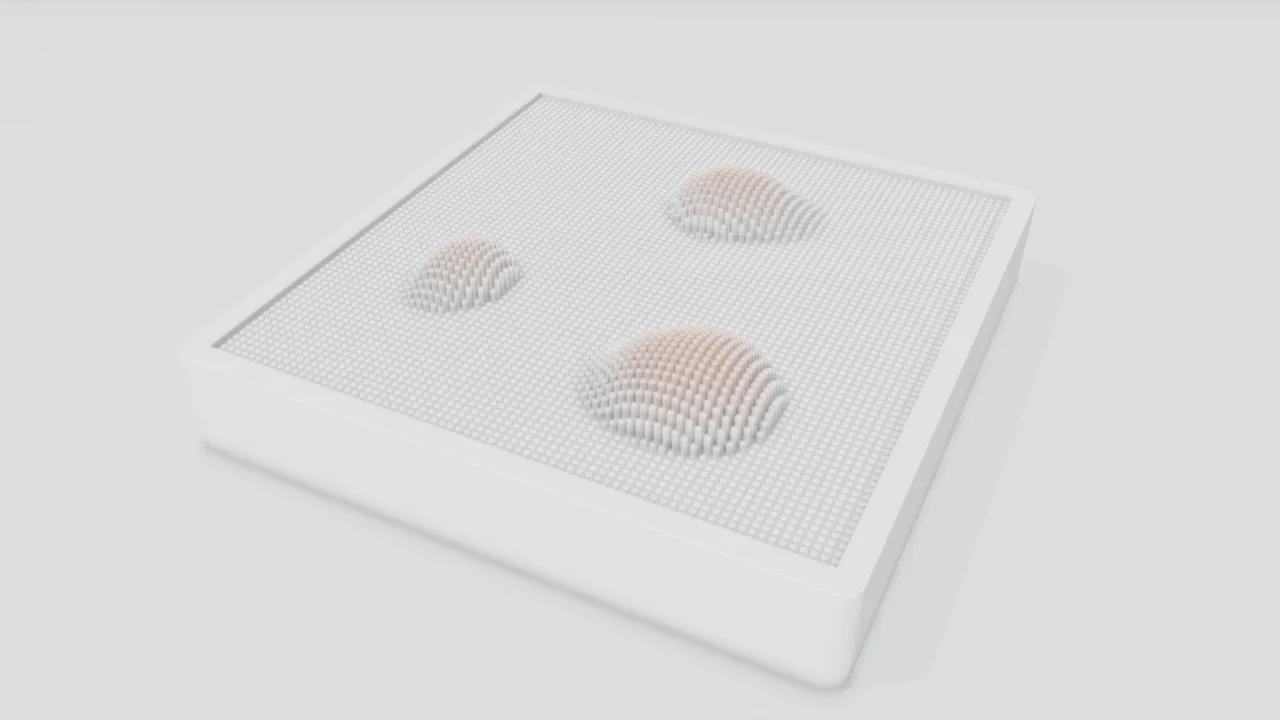
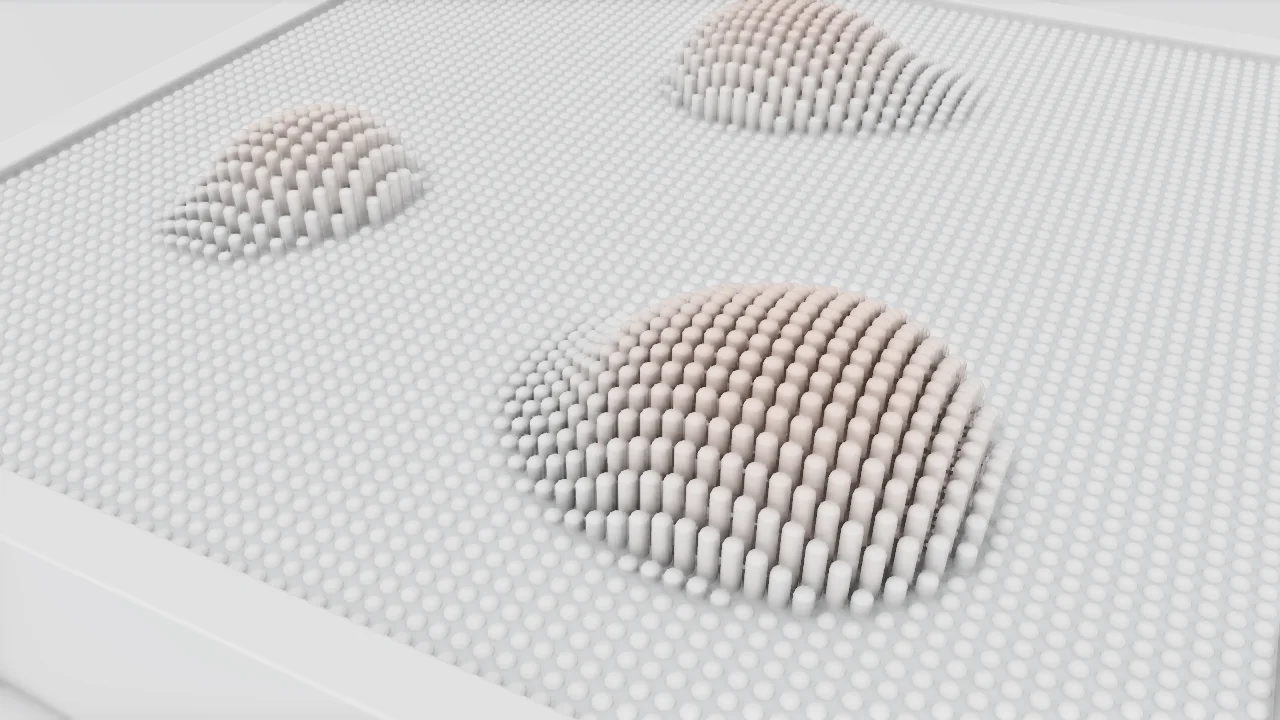
Tidy the READMEs and frame the AO demo closer
- Link the README's tiles to their READMEs' headings
- Show each technique's screenshot at 400px, with a Live link to its demo
- Move the AO demo's camera closer and retake its screenshot
- Drop the "every option is also a property" comments: the snippets set their options in the options object

Claude-Session: https://claude.ai/code/session_015eexSuq3pECxfGB3y4SeQv

diff --git a/rendering/screen-space-reflections/SSRNode.js b/rendering/screen-space-reflections/SSRNode.js
@@ -16,8 +16,10 @@
  *   scenePass.getTexture('velocity').type = THREE.HalfFloatType      // RG16F: keeps the MRT at 30 B per sample
  *   scenePass.getTexture('velocity').format = THREE.RGFormat
  *   const color = scenePass.getTextureNode()
- *   const reflections = ssr(color, scenePass, { thickness: 0.2 })    // reads the pass's ssr* and velocity textures
- *   reflections.roughnessCutoff = 0.6                                // every option is also a property
+ *   const reflections = ssr(color, scenePass, {                      // reads the pass's ssr* and velocity textures
+ *     thickness: 0.2,
+ *     roughnessCutoff: 0.6,
+ *   })
  *   const composite = ssrComposite(color, reflections, scene.environment, {
  *     environmentIntensity: () => scene.environmentIntensity,          // read each frame
  *     environmentRotation: scene.environmentRotation,
@@ -34,12 +36,11 @@
  * Outputs: the node itself is `(L_ssr, c)` at the fragment's G-buffer texel; `ssrComposite()` replaces the
  * scene's environment specular by `mix(L_env, L_ssr, c)`; `ssrEnvironmentSpecular()` is that `F·L_env`.
  *
- * Every option is also a property of the same name. Numeric settings are uniforms (getter → UniformNode, setter →
- * value) and switches uniform 0/1: changing them never recompiles. `batch` and `velocityNode` rebuild the trace on
- * the next frame, as do `normalsNode`, `linearDepthNode`, `specularNode` and `resolutionScale`. Those four and
- * `pyramidLevels` also change what the node's inline readers compile to (the node, `resolve()`, `ssrComposite()`,
- * `ssrEnvironmentSpecular()`): rebuild the output graph after changing them. `getTextureNode()` follows on its own.
- * The camera type is fixed at construction.
+ * Numeric settings are uniforms (getter → UniformNode, setter → value) and switches uniform 0/1: changing them never
+ * recompiles. `batch` and `velocityNode` rebuild the trace on the next frame, as do `normalsNode`, `linearDepthNode`,
+ * `specularNode` and `resolutionScale`. Those four and `pyramidLevels` also change what the node's inline readers
+ * compile to (the node, `resolve()`, `ssrComposite()`, `ssrEnvironmentSpecular()`): rebuild the output graph after
+ * changing them. `getTextureNode()` follows on its own. The camera type is fixed at construction.
  */
 import {
   FloatType,
@@ -443,8 +444,8 @@ export class SSRNode extends Node {
   /**
    * @param {TextureNode} colorNode - Scene radiance at the G-buffer's resolution (HDR: the jittered scene pass output).
    * @param {PassNode} gBufferPass - The pass whose MRT spreads ssrGBuffer() (and 'velocity'); samples 0.
-   * @param {object} [options] - Initial values of the properties of the same name: `label`, the input nodes,
-   *   `resolutionScale`, `batch`, `pyramidLevels`, `maxDistance`, the numeric settings and the switches.
+   * @param {object} [options] - `label`, the input nodes, `resolutionScale`, `batch`, `pyramidLevels`, `maxDistance`,
+   *   the numeric settings and the switches.
    */
   constructor(colorNode, gBufferPass, options = {}) {
     super('vec4')

diff --git a/rendering/screen-space-reflections/SSRNode.d.ts b/rendering/screen-space-reflections/SSRNode.d.ts
@@ -3,8 +3,7 @@
 //   const scenePass = pass(scene, camera, { samples: 0 })
 //   scenePass.setMRT(mrt({ output, velocity, ...ssrGBuffer() }))   // keep velocity RG16F
 //   const color = scenePass.getTextureNode()
-//   const reflections = ssr(color, scenePass, { roughnessCutoff: 0.6 })
-//   reflections.thickness = 0.2 // every option is also a property
+//   const reflections = ssr(color, scenePass, { roughnessCutoff: 0.6, thickness: 0.2 })
 //   renderPipeline.outputNode = ssrComposite(color, reflections, scene.environment)
 //   await reflections.compileAsync(renderer) // optional: the passes' pipelines, ahead of time
 
@@ -20,7 +19,6 @@ export type SSRGBuffer = {
   ssrSpecular: Node<'vec4'>
 }
 
-/** Each option is also a property of the node, of the same name. */
 export interface SSRNodeOptions {
   /** Prefix of every material, target and quad name. Default 'SSR'. */
   label?: string

diff --git a/rendering/ambient-occlusion/index.html b/rendering/ambient-occlusion/index.html
@@ -148,9 +148,9 @@
       const BOARD = SIDE * PITCH
       const DEPTH = 0.8 // of the board, down to the floor
 
-      // Back far enough to see the board's width: a portrait phone sees it whole too.
+      // Close in on the pins; a narrow screen backs off to keep the same width in view.
       const halfWidth = Math.atan(Math.tan(THREE.MathUtils.degToRad(camera.fov) / 2) * camera.aspect)
-      const distance = THREE.MathUtils.clamp((BOARD / 2 + 1.1) / Math.tan(halfWidth), 8.4, 24)
+      const distance = THREE.MathUtils.clamp(2.25 / Math.tan(halfWidth), 4, 24)
       camera.position.set(3.4, 6, 6.85).setLength(distance).add(controls.target)
       scene.fog.near = distance + 4
       scene.fog.far = distance + 22

diff --git a/simulations/noodles/NoodleSimulation.js b/simulations/noodles/NoodleSimulation.js
@@ -61,7 +61,7 @@ import {
  *
  *   const curves = points.map((p) => new THREE.LineCurve3(p, p.clone().add(new THREE.Vector3(0, -3, 0))))
  *   const noodles = new NoodleSimulation(curves, material, { radius: 0.05, particlesPerNoodle: 32 })
- *   noodles.bendingCompliance = 0.5                  // stiffer; every setting is live
+ *   noodles.bendingCompliance = 0.5                  // stiffer
  *   noodles.bendingPlasticity = 0                    // ropes and cables spring back
  *   noodles.colliders.push(new THREE.Sphere(center, 0.5), new Capsule(start, end, 0.1)) // move them in place
  *   scene.add(noodles)

diff --git a/rendering/ambient-occlusion/XeGTAONode.d.ts b/rendering/ambient-occlusion/XeGTAONode.d.ts
@@ -4,7 +4,6 @@
 //   prePass.contextNode = context({ getAO: null }) // the prepass mustn't read the AO it feeds
 //   const occlusion = xeGTAO(prePass.getTextureNode('depth'), camera, { radius: 0.5 }) // world units
 //   scenePass.contextNode = builtinAOContext(occlusion.getMaterialAONode())
-//   occlusion.radius = 0.3 // every option is also a property
 //   await occlusion.compileAsync(renderer) // optional: compiles its passes ahead of the first frame
 //
 // Or as a post effect: multiply the scene's color by `occlusion.getAONode()`.

diff --git a/rendering/taau/TAAUNode.d.ts b/rendering/taau/TAAUNode.d.ts
@@ -7,7 +7,6 @@
 //   const color = scenePass.getTextureNode('output')
 //   const depth = scenePass.getTextureNode('depth')
 //   const taauNode = taau(color, depth, scenePass.getTextureNode('velocity'), camera, { maxAccumulation: 24 })
-//   taauNode.maxAccumulation = 8 // every option is also a property
 //   renderPipeline.outputNode = renderOutput(taauNode.getTextureNode())
 //   await taauNode.compileAsync(renderer) // optional: compiles the passes ahead of the first frame
 

diff --git a/rendering/motion-blur/MotionBlurNode.js b/rendering/motion-blur/MotionBlurNode.js
@@ -29,7 +29,6 @@
  *   })
  *   renderPipeline.outputNode = blurred
  *   await blurred.compileAsync(renderer) // optional: compiles the compute passes ahead of the first frame
- *   blurred.samples = 32 // every option is also a property
  *
  * Read it from a fullscreen pass (its result is per pixel at uv()). The numeric settings read as their uniform and take
  * a number; the plain ones are read on the CPU each frame. `velocityNode` and `resolutionScale` rebuild the compute

diff --git a/rendering/bloom/BloomNode.d.ts b/rendering/bloom/BloomNode.d.ts
@@ -3,7 +3,6 @@
 //   const sceneColor = scenePass.getTextureNode()
 //   const bloomNode = bloom(sceneColor, { strength: 1, radius: 0.5, threshold: 0.8 })
 //   renderPipeline.outputNode = sceneColor.add(bloomNode)
-//   bloomNode.strength = 0.5 // every option is also a property
 //   await bloomNode.compileAsync(renderer) // optional: compiles the passes ahead of the first frame
 
 import { Node, Renderer, TextureNode, UniformNode, Vector3 } from 'three/webgpu'

diff --git a/rendering/ambient-occlusion/XeGTAONode.js b/rendering/ambient-occlusion/XeGTAONode.js
@@ -24,7 +24,6 @@
  * As a post effect:
  *
  *   const aoPass = xeGTAO(scenePass.getTextureNode('depth'), camera, { radius: 0.3 }) // world units
- *   aoPass.radius = 0.5 // every option is also a property
  *   renderPipeline.outputNode = vec4(scenePassColor.rgb.mul(aoPass.getAONode()), scenePassColor.a)
  *   await aoPass.compileAsync(renderer) // optional: compiles its passes ahead of the first frame
  *

diff --git a/rendering/bloom/BloomNode.js b/rendering/bloom/BloomNode.js
@@ -17,7 +17,6 @@
 //   const sceneColor = scenePass.getTextureNode()
 //   const bloomNode = bloom(sceneColor, { strength: 1, radius: 0.5, threshold: 0.8 })
 //   renderPipeline.outputNode = sceneColor.add(bloomNode)
-//   bloomNode.strength = 0.5 // every option is also a property
 //   await bloomNode.compileAsync(renderer) // optional: compiles the passes ahead of the first frame
 
 import {

diff --git a/rendering/taau/TAAUNode.js b/rendering/taau/TAAUNode.js
@@ -27,7 +27,6 @@
  *     camera,
  *     { maxAccumulation: 24 },
  *   )
- *   taauNode.maxAccumulation = 8 // every option is also a property
  *   renderPipeline.outputNode = renderOutput(taauNode.getTextureNode())
  *   await taauNode.compileAsync(renderer) // optional: compiles the passes ahead of the first frame
  *

diff --git a/rendering/motion-blur/MotionBlurNode.d.ts b/rendering/motion-blur/MotionBlurNode.d.ts
@@ -7,7 +7,6 @@
 //     shutterAngle: 180,
 //   })
 //   renderPipeline.outputNode = blurred
-//   blurred.shutterAngle = 270 // every option is also a property
 
 import { Camera, Node, Renderer, TextureNode, UniformNode } from 'three/webgpu'
 
